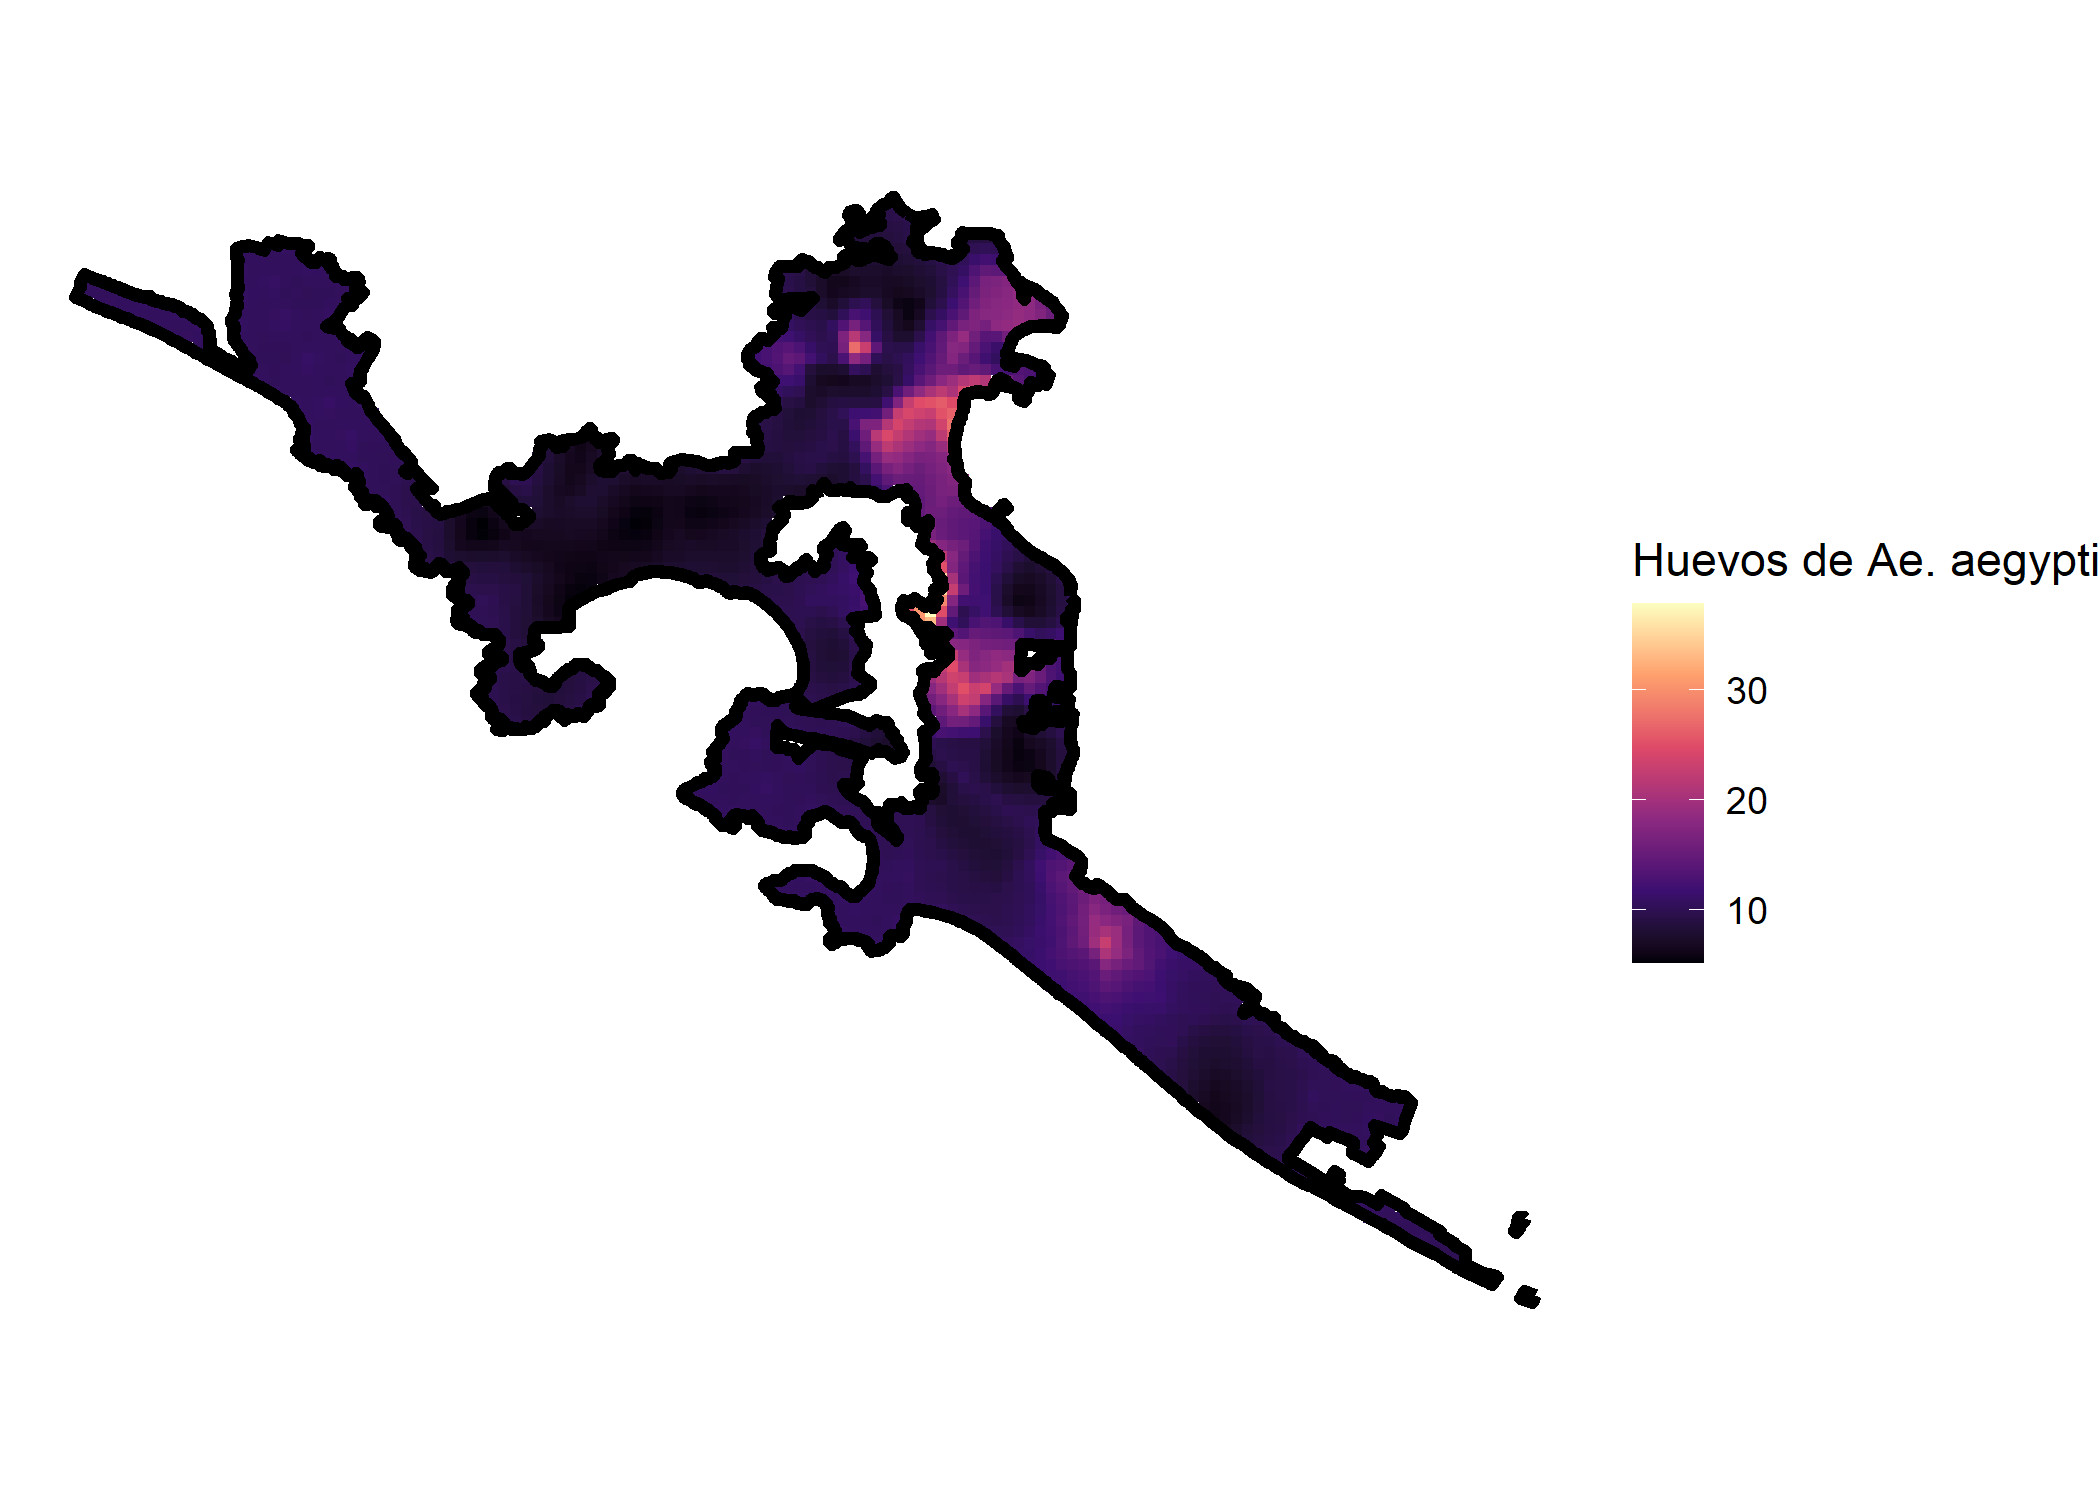
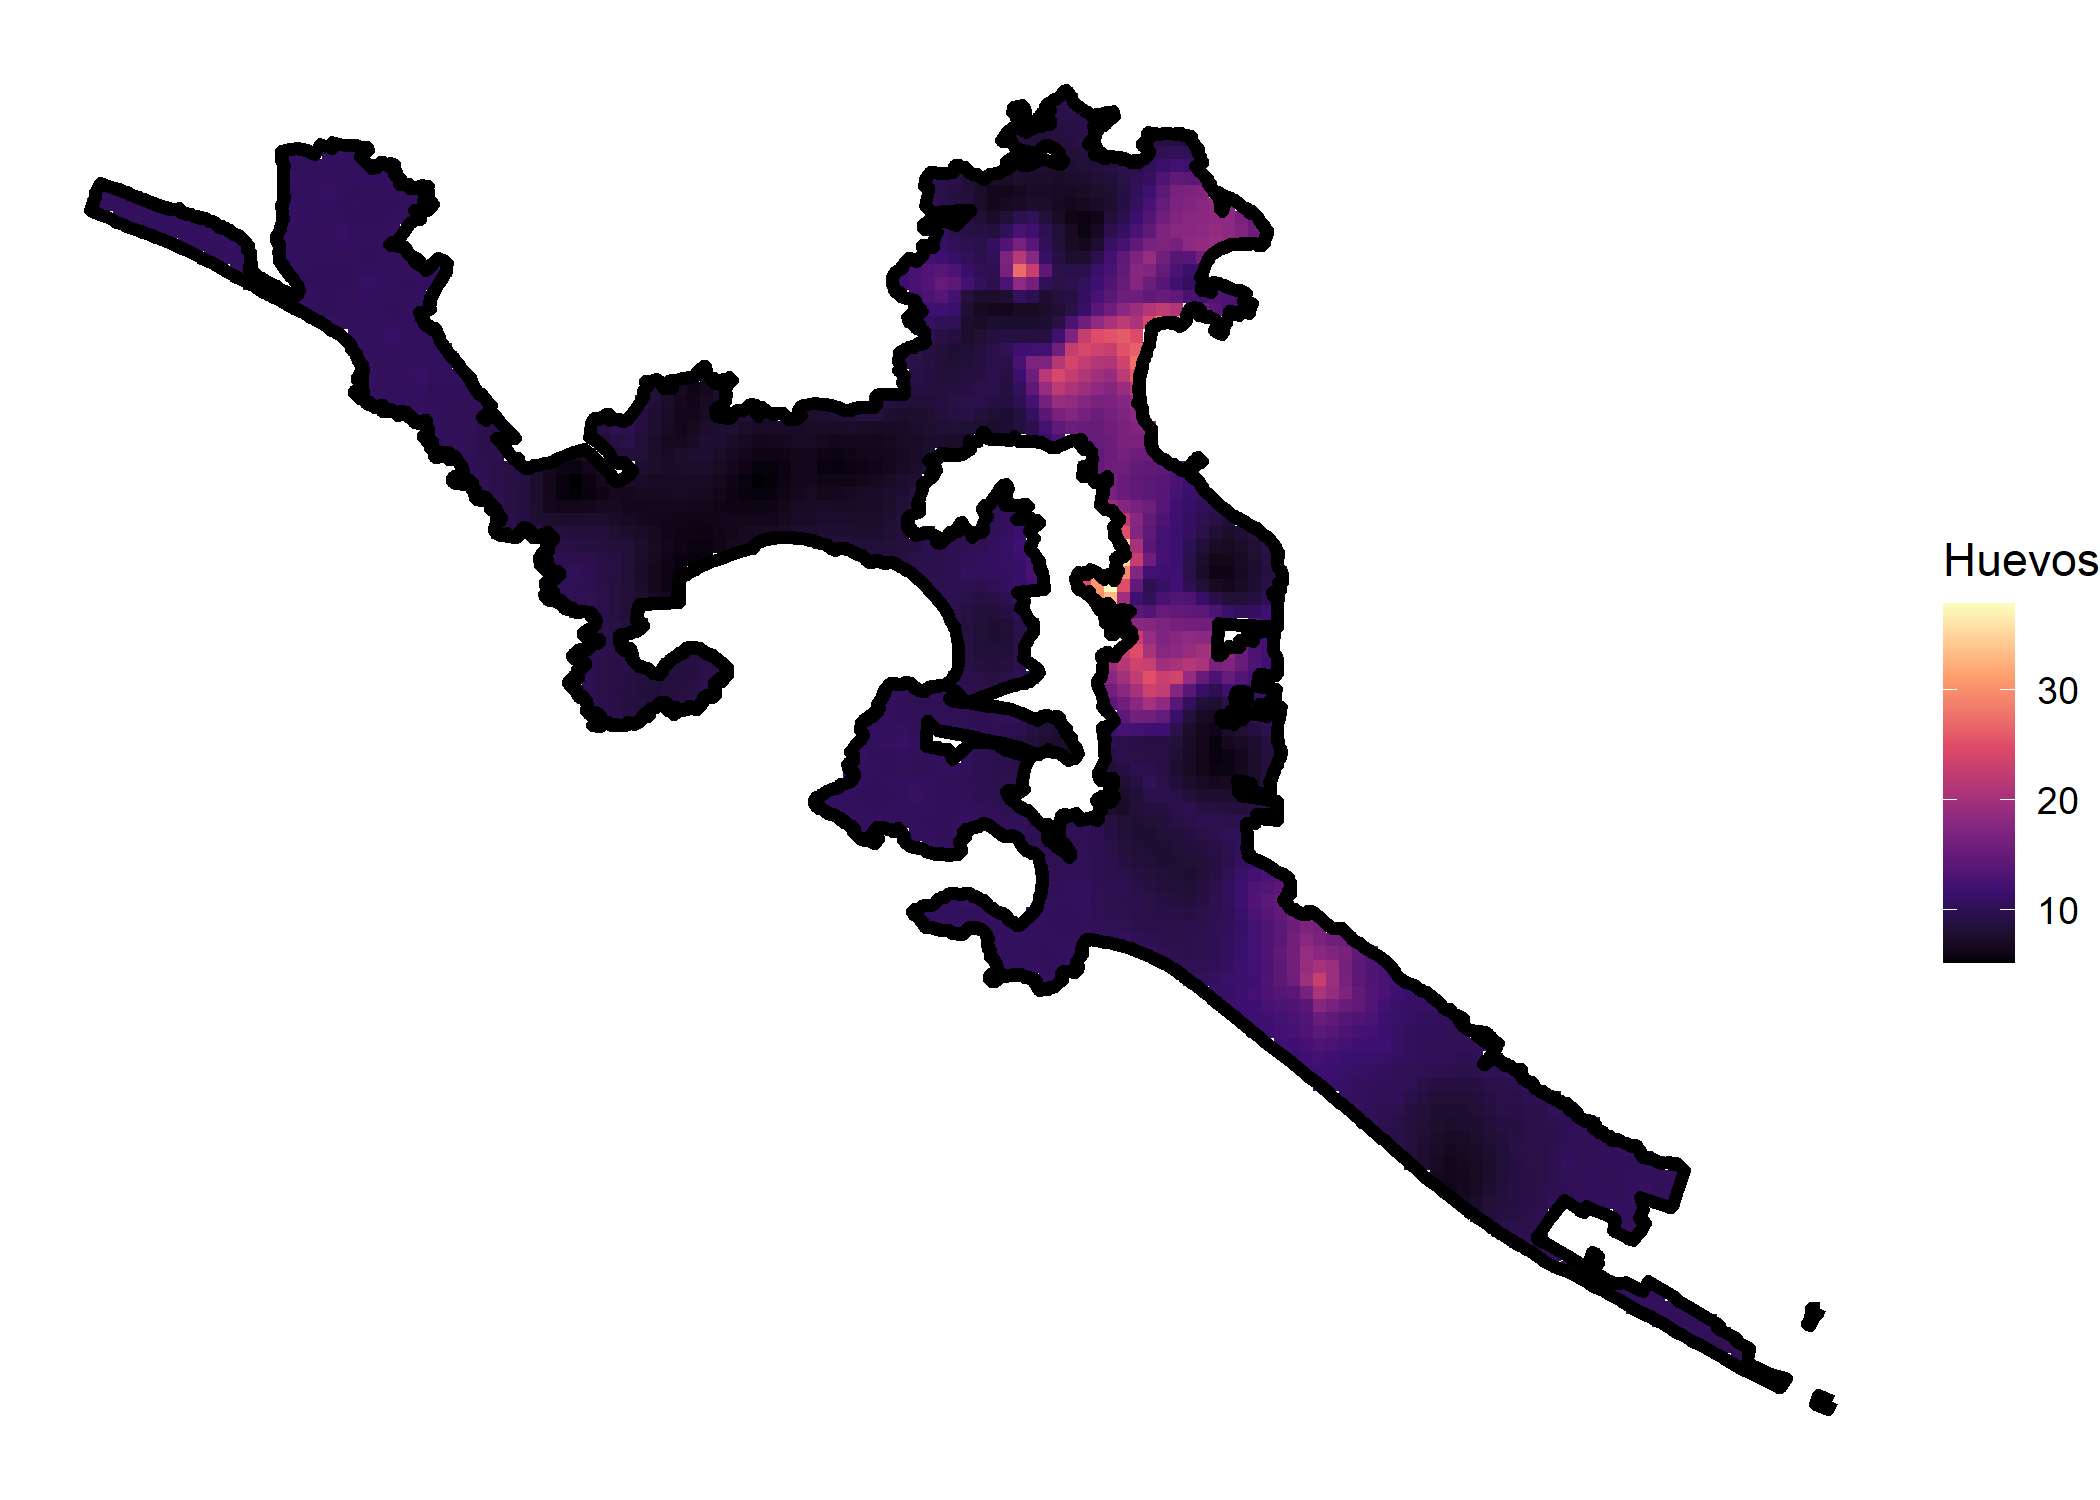
This commit update the README

Changed region(s): [[0.031, 0.0613, 0.8976, 0.9507], [0.7738, 0.368, 1.0, 0.644]]

diff --git a/README.md b/README.md
@@ -62,7 +62,6 @@ remote::install_github("fdzul/deneggs")
 ``` r
 # Step 1. define the paths 
 library(magrittr)
-#> Warning: package 'magrittr' was built under R version 4.0.3
 path_lect <- "D:/Users/OneDrive/datasets/SI_Monitoreo_Vectores/subsistema_vigilancia_dengue/2020/12_Guerrero"
 path_shp <- "D:/Users/OneDrive/datasets/MG_sep_2019/12_guerrero/conjunto_de_datos/12l.shp"
 path_coord =  "D:/Users/OneDrive/datasets/SI_Monitoreo_Vectores/subsistema_vigilancia_dengue/2020/12_Guerrero/DescargaOvitrampasMesFco.txt"
@@ -77,32 +76,15 @@ acapulco <- deneggs::spde_pred_map(path_lect = path_lect,
                  integration = "eb",
                  k = 20,
                  palette_vir  = "magma",
-                 leg_title = "Huevos de Ae. aegypti",
+                 leg_title = "Huevos",
                  week = lubridate::epiweek(Sys.Date())-2,
                  plot = TRUE,
                  var = "Huevecillos",
                  cell_size = 1000,
                  alpha = .99)
-#> Warning in scan(file = file, what = what, sep = sep, quote = quote, dec = dec, :
-#> embedded nul(s) found in input
-#> Warning in scan(file = file, what = what, sep = sep, quote = quote, dec = dec, :
-#> embedded nul(s) found in input
-#> although coordinates are longitude/latitude, st_intersects assumes that they are planar
-#> although coordinates are longitude/latitude, st_intersects assumes that they are planar
-#> Warning in proj4string(sp): CRS object has comment, which is lost in output
-#> although coordinates are longitude/latitude, st_intersects assumes that they are planar
-#> 
-#>      PLEASE NOTE:  The components "delsgs" and "summary" of the
-#>  object returned by deldir() are now DATA FRAMES rather than
-#>  matrices (as they were prior to release 0.0-18).
-#>  See help("deldir").
-#>  
-#>      PLEASE NOTE: The process that deldir() uses for determining
-#>  duplicated points has changed from that used in version
-#>  0.0-9 of this package (and previously). See help("deldir").
 ```
 
-<img src="man/figures/README-example-1.png" width="100%" />
+<img src="man/figures/README-example-1.png" width="100%" style="display: block; margin: auto;" />
 
 ``` r
 knitr::kable(head(acapulco$data), "simple", caption = "An example table caption.")
@@ -140,11 +122,11 @@ knitr::kable(head(acapulco$dics), "simple", caption = "An example table caption.
 
 |      dic | fam                    |
 |---------:|:-----------------------|
-| 69157.90 | poisson                |
+| 69157.89 | poisson                |
 | 48792.52 | zeroinflatedpoisson0   |
 | 48794.68 | zeroinflatedpoisson1   |
 | 24837.15 | nbinomial              |
-| 25771.48 | nbinomial2             |
+| 25771.50 | nbinomial2             |
 | 24530.23 | zeroinflatednbinomial0 |
 
 An example table caption.
@@ -168,13 +150,13 @@ An example table caption.
 plot(sf::st_geometry(acapulco$loc))
 ```
 
-<img src="man/figures/README-example-2.png" width="100%" />
+<img src="man/figures/README-example-2.png" width="100%" style="display: block; margin: auto;" />
 
 ``` r
 acapulco$map
 ```
 
-<img src="man/figures/README-example-3.png" width="100%" />
+<img src="man/figures/README-example-3.png" width="100%" style="display: block; margin: auto;" />
 
 ## Authors
 
